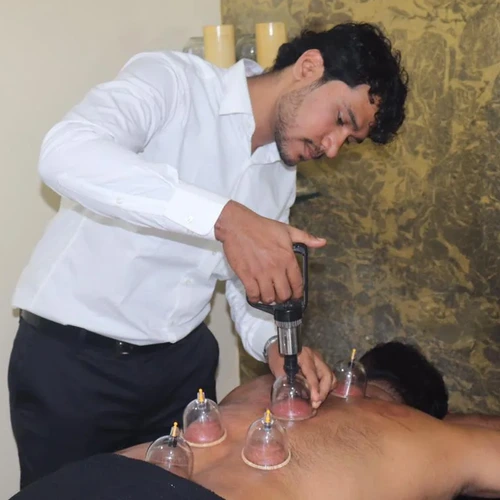
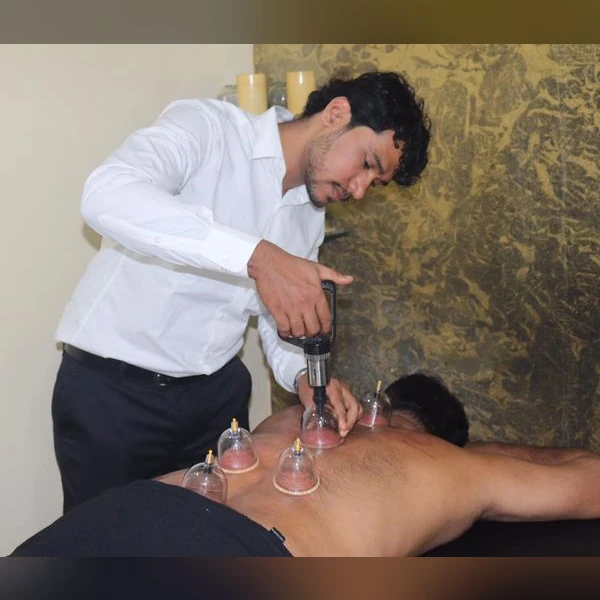
fix(rebuild): zoom out satellite node framings to display full subjects and actions inside organic lasso shapes

diff --git a/scripts/generate_nodes.js b/scripts/generate_nodes.js
@@ -1,0 +1,206 @@
+const sharp = require('sharp');
+const path = require('path');
+const fs = require('fs');
+
+async function run() {
+  const outDir = path.join(__dirname, '../public/assets/rebuild/nodes');
+
+  // 1. Pulse Assessment
+  // Original pulse.jpeg is 900 x 1600.
+  // Sameer head: top around y=100.
+  // Hands/wrist pulse: around y=1100 to 1450.
+  // We want to capture Sameer's head AND his hands taking the pulse on the patient's wrist.
+  // Region: left: 0, top: 80, width: 900, height: 1400.
+  // To keep it square without distorting, we pad 250px on left and right with replicate or blur.
+  {
+    const src = path.join(__dirname, '../public/assets/relax/pulse.jpeg');
+    const cropped = await sharp(src)
+      .extract({ left: 0, top: 60, width: 900, height: 1400 })
+      .resize(386, 600) // ratio 900:1400 scaled to height 600 -> width is 386
+      .toBuffer();
+
+    // Create 600x600 square with subtle dark clinical background that matches surrounding page (#12180E)
+    // or blurred background from the photo itself
+    const bg = await sharp(src)
+      .resize(600, 600, { fit: 'cover' })
+      .blur(40)
+      .modulate({ brightness: 0.6 })
+      .toBuffer();
+
+    await sharp(bg)
+      .composite([{ input: cropped, left: Math.round((600 - 386) / 2), top: 0 }])
+      .webp({ quality: 90 })
+      .toFile(path.join(outDir, 'node-pulse-assessment.webp'));
+    console.log('Generated node-pulse-assessment.webp');
+  }
+
+  // 2. Therapies (Facial & Herbal Oil Massage)
+  // Original therapies.jpg is 1080 x 1920
+  // Sameer on left (white shirt), therapist in maroon on right massaging patient's face,
+  // patient on droni table.
+  // Head tops are at y=380, table/chest at y=1450.
+  // Total span: top: 260, height: 1250, width: 1080.
+  {
+    const src = path.join(__dirname, '../public/assets/rebuild/therapies.jpg');
+    const cropped = await sharp(src)
+      .extract({ left: 0, top: 250, width: 1080, height: 1250 })
+      .resize(518, 600) // ratio 1080:1250 scaled to height 600 -> width 518
+      .toBuffer();
+
+    const bg = await sharp(src)
+      .resize(600, 600, { fit: 'cover' })
+      .blur(40)
+      .modulate({ brightness: 0.6 })
+      .toBuffer();
+
+    await sharp(bg)
+      .composite([{ input: cropped, left: Math.round((600 - 518) / 2), top: 0 }])
+      .webp({ quality: 90 })
+      .toFile(path.join(outDir, 'node-therapies.webp'));
+    console.log('Generated node-therapies.webp');
+  }
+
+  // 3. Shirodhara Stream
+  // Original shirodhara.png is 1672 x 941 (landscape)
+  // Brass vessel, hanging chain, therapist holding it, cascading oil stream, client's forehead & table.
+  // Left: 320, Top: 0, Width: 1100, Height: 941.
+  {
+    const src = path.join(__dirname, '../public/assets/relax/shirodhara.png');
+    // Landscape 1100x941 fits well in 600x600 if scaled to fit or framed
+    const cropped = await sharp(src)
+      .extract({ left: 320, top: 0, width: 1050, height: 941 })
+      .resize(600, 538)
+      .toBuffer();
+
+    const bg = await sharp(src)
+      .resize(600, 600, { fit: 'cover' })
+      .blur(40)
+      .modulate({ brightness: 0.6 })
+      .toBuffer();
+
+    await sharp(bg)
+      .composite([{ input: cropped, left: 0, top: Math.round((600 - 538) / 2) }])
+      .webp({ quality: 90 })
+      .toFile(path.join(outDir, 'node-shirodhara.webp'));
+    console.log('Generated node-shirodhara.webp');
+  }
+
+  // 4. Somatic Movement (Mat)
+  // Original is Assets all/RELAX/vlcsnap-2026-08-28-12h16m43s490.png (1920 x 1080)
+  // Wide view of instructor crouching on mat + participant on red mat.
+  // Left: 250, Top: 150, Width: 1400, Height: 930
+  {
+    const src = path.join(__dirname, '../Assets all/RELAX/vlcsnap-2026-08-28-12h16m43s490.png');
+    const cropped = await sharp(src)
+      .extract({ left: 240, top: 120, width: 1450, height: 960 })
+      .resize(600, 397)
+      .toBuffer();
+
+    const bg = await sharp(src)
+      .resize(600, 600, { fit: 'cover' })
+      .blur(40)
+      .modulate({ brightness: 0.6 })
+      .toBuffer();
+
+    await sharp(bg)
+      .composite([{ input: cropped, left: 0, top: Math.round((600 - 397) / 2) }])
+      .webp({ quality: 90 })
+      .toFile(path.join(outDir, 'node-somatic-mat.webp'));
+    console.log('Generated node-somatic-mat.webp');
+  }
+
+  // 5. Pranayama Yoga Breath
+  // Original yoga-breath.jpg is 1080 x 1920.
+  // Instructor and participant doing Nadi Shodhana breathwork.
+  // Heads are around y=400 to 1100.
+  {
+    const src = path.join(__dirname, '../public/assets/rebuild/yoga-breath.jpg');
+    const cropped = await sharp(src)
+      .extract({ left: 0, top: 350, width: 1080, height: 1200 })
+      .resize(540, 600)
+      .toBuffer();
+
+    const bg = await sharp(src)
+      .resize(600, 600, { fit: 'cover' })
+      .blur(40)
+      .modulate({ brightness: 0.6 })
+      .toBuffer();
+
+    await sharp(bg)
+      .composite([{ input: cropped, left: Math.round((600 - 540) / 2), top: 0 }])
+      .webp({ quality: 90 })
+      .toFile(path.join(outDir, 'node-yoga-breath.webp'));
+    console.log('Generated node-yoga-breath.webp');
+  }
+
+  // 6. Cupping Decompression
+  // Original cupping.jpg is 1280 x 853.
+  // Therapist standing applying suction pump, cups on back of client lying down.
+  {
+    const src = path.join(__dirname, '../public/assets/relax/cupping.jpg');
+    const cropped = await sharp(src)
+      .extract({ left: 180, top: 40, width: 950, height: 813 })
+      .resize(600, 513)
+      .toBuffer();
+
+    const bg = await sharp(src)
+      .resize(600, 600, { fit: 'cover' })
+      .blur(40)
+      .modulate({ brightness: 0.6 })
+      .toBuffer();
+
+    await sharp(bg)
+      .composite([{ input: cropped, left: 0, top: Math.round((600 - 513) / 2) }])
+      .webp({ quality: 90 })
+      .toFile(path.join(outDir, 'node-cupping.webp'));
+    console.log('Generated node-cupping.webp');
+  }
+
+  // 7. Block A Entrance
+  // Original 0812 (2)(4).jpg is 2160 x 3840.
+  // Sign "BLOCK A" at top, Sameer and guest walking forward through door, floor tiles.
+  {
+    const src = path.join(__dirname, '../public/assets/rebuild/0812 (2)(4).jpg');
+    const cropped = await sharp(src)
+      .extract({ left: 100, top: 120, width: 1960, height: 2600 })
+      .resize(452, 600)
+      .toBuffer();
+
+    const bg = await sharp(src)
+      .resize(600, 600, { fit: 'cover' })
+      .blur(40)
+      .modulate({ brightness: 0.6 })
+      .toBuffer();
+
+    await sharp(bg)
+      .composite([{ input: cropped, left: Math.round((600 - 452) / 2), top: 0 }])
+      .webp({ quality: 90 })
+      .toFile(path.join(outDir, 'node-block-a.webp'));
+    console.log('Generated node-block-a.webp');
+  }
+
+  // 8. Outdoor Terrace / Sanctuary Grounds
+  // Original center-sanctuary.jpg is 2160 x 3840.
+  // Guest leaning on terrace balcony railing looking into green garden trees.
+  {
+    const src = path.join(__dirname, '../public/assets/rebuild/center-sanctuary.jpg');
+    const cropped = await sharp(src)
+      .extract({ left: 0, top: 500, width: 2160, height: 2600 })
+      .resize(498, 600)
+      .toBuffer();
+
+    const bg = await sharp(src)
+      .resize(600, 600, { fit: 'cover' })
+      .blur(40)
+      .modulate({ brightness: 0.6 })
+      .toBuffer();
+
+    await sharp(bg)
+      .composite([{ input: cropped, left: Math.round((600 - 498) / 2), top: 0 }])
+      .webp({ quality: 90 })
+      .toFile(path.join(outDir, 'node-outdoor-terrace.webp'));
+    console.log('Generated node-outdoor-terrace.webp');
+  }
+}
+
+run().catch(console.error);

diff --git a/src/components/sections/RebuildRetreat.tsx b/src/components/sections/RebuildRetreat.tsx
@@ -15,7 +15,7 @@ interface RebuildRetreatProps {
 
 const REBUILD_NODES = [
   // 1. Retreat Welcome / Block A (Top-Right - cy = 80)
-  // Medium Tall Dome (125x135) - captures two guests walking into Block A
+  // Medium Tall Dome (125x135) - captures two guests walking into Block A with sign
   {
     imageSrc: "/assets/rebuild/nodes/node-block-a.webp",
     alt: "Sanctuary Block A Living & Facility Welcome",
@@ -25,7 +25,7 @@ const REBUILD_NODES = [
     tilt: 3,
     desktopPos: "top-[12px] right-[85px]",
     mobileSize: 110,
-    objectPosition: "object-[48%_38%]",
+    objectPosition: "object-center",
   },
   // 2. Ayurvedic Retreat Bodywork (Top-Left - cy = 115)
   // HERO LARGE (155x150) - clearly shows therapist in white, therapist in red, and client's facial massage
@@ -38,7 +38,7 @@ const REBUILD_NODES = [
     tilt: -4,
     desktopPos: "top-[40px] left-[15px]",
     mobileSize: 120,
-    objectPosition: "object-[45%_55%]",
+    objectPosition: "object-center",
   },
   // 3. Shirodhara Stream (Top-Center - cy = 150)
   // HERO LARGE (155x140) - captures hanging brass pot, cascading oil, therapist, and client's forehead
@@ -51,7 +51,7 @@ const REBUILD_NODES = [
     tilt: 0,
     desktopPos: "top-[80px] left-[345px]",
     mobileSize: 120,
-    objectPosition: "object-[50%_35%]",
+    objectPosition: "object-center",
   },
   // 4. Pulse Assessment & Clinical Review (Upper-Mid Right - cy = 230)
   // HERO LARGE (150x150) - Sameer's face, focused eyes, clipboard writing, and wrist pulse diagnostic 100% visible
@@ -64,7 +64,7 @@ const REBUILD_NODES = [
     tilt: -3,
     desktopPos: "top-[155px] right-[10px]",
     mobileSize: 115,
-    objectPosition: "object-[50%_25%]",
+    objectPosition: "object-center",
   },
   // 5. Cupping Decompression (Mid-Left - cy = 328)
   // Medium (130x135) - therapist's focused face and cupping suction on back clearly framed
@@ -77,7 +77,7 @@ const REBUILD_NODES = [
     tilt: -5,
     desktopPos: "top-[260px] left-[50px]",
     mobileSize: 110,
-    objectPosition: "object-[55%_35%]",
+    objectPosition: "object-center",
   },
   // 6. Somatic Movement Alignment (Lower-Mid Right - cy = 418)
   // Medium Wide (145x115) - wide aspect ratio shows both instructor crouching and participant on red mat
@@ -90,10 +90,10 @@ const REBUILD_NODES = [
     tilt: 4,
     desktopPos: "top-[360px] right-[65px]",
     mobileSize: 110,
-    objectPosition: "object-[45%_50%]",
+    objectPosition: "object-center",
   },
   // 7. Outdoor Somatic Rest Under Garden Trees (Bottom-Left - cy = 572)
-  // Compact (115x115) - Sameer crouched guiding client resting peacefully on outdoor terrace
+  // Compact (115x115) - peaceful guest resting on balcony overlooking garden trees
   {
     imageSrc: "/assets/rebuild/nodes/node-outdoor-terrace.webp",
     alt: "Sanctuary Outdoor Somatic Rest Under Garden Trees",
@@ -103,10 +103,10 @@ const REBUILD_NODES = [
     tilt: -4,
     desktopPos: "bottom-[120px] left-[25px]",
     mobileSize: 100,
-    objectPosition: "object-[35%_35%]",
+    objectPosition: "object-center",
   },
   // 8. Morning Pranayama & Breathwork (Bottom-Right - cy = 630)
-  // Compact-Medium (120x120) - instructor demonstrating Nadi Shodhana with thumb on nostril clearly framed on left
+  // Compact-Medium (120x120) - instructor demonstrating Nadi Shodhana with thumb on nostril clearly framed
   {
     imageSrc: "/assets/rebuild/nodes/node-yoga-breath.webp",
     alt: "Morning Pranayama & Restorative Breathwork",
@@ -116,7 +116,7 @@ const REBUILD_NODES = [
     tilt: 3,
     desktopPos: "bottom-[60px] right-[40px]",
     mobileSize: 105,
-    objectPosition: "object-[30%_30%]",
+    objectPosition: "object-center",
   },
 ];
 
